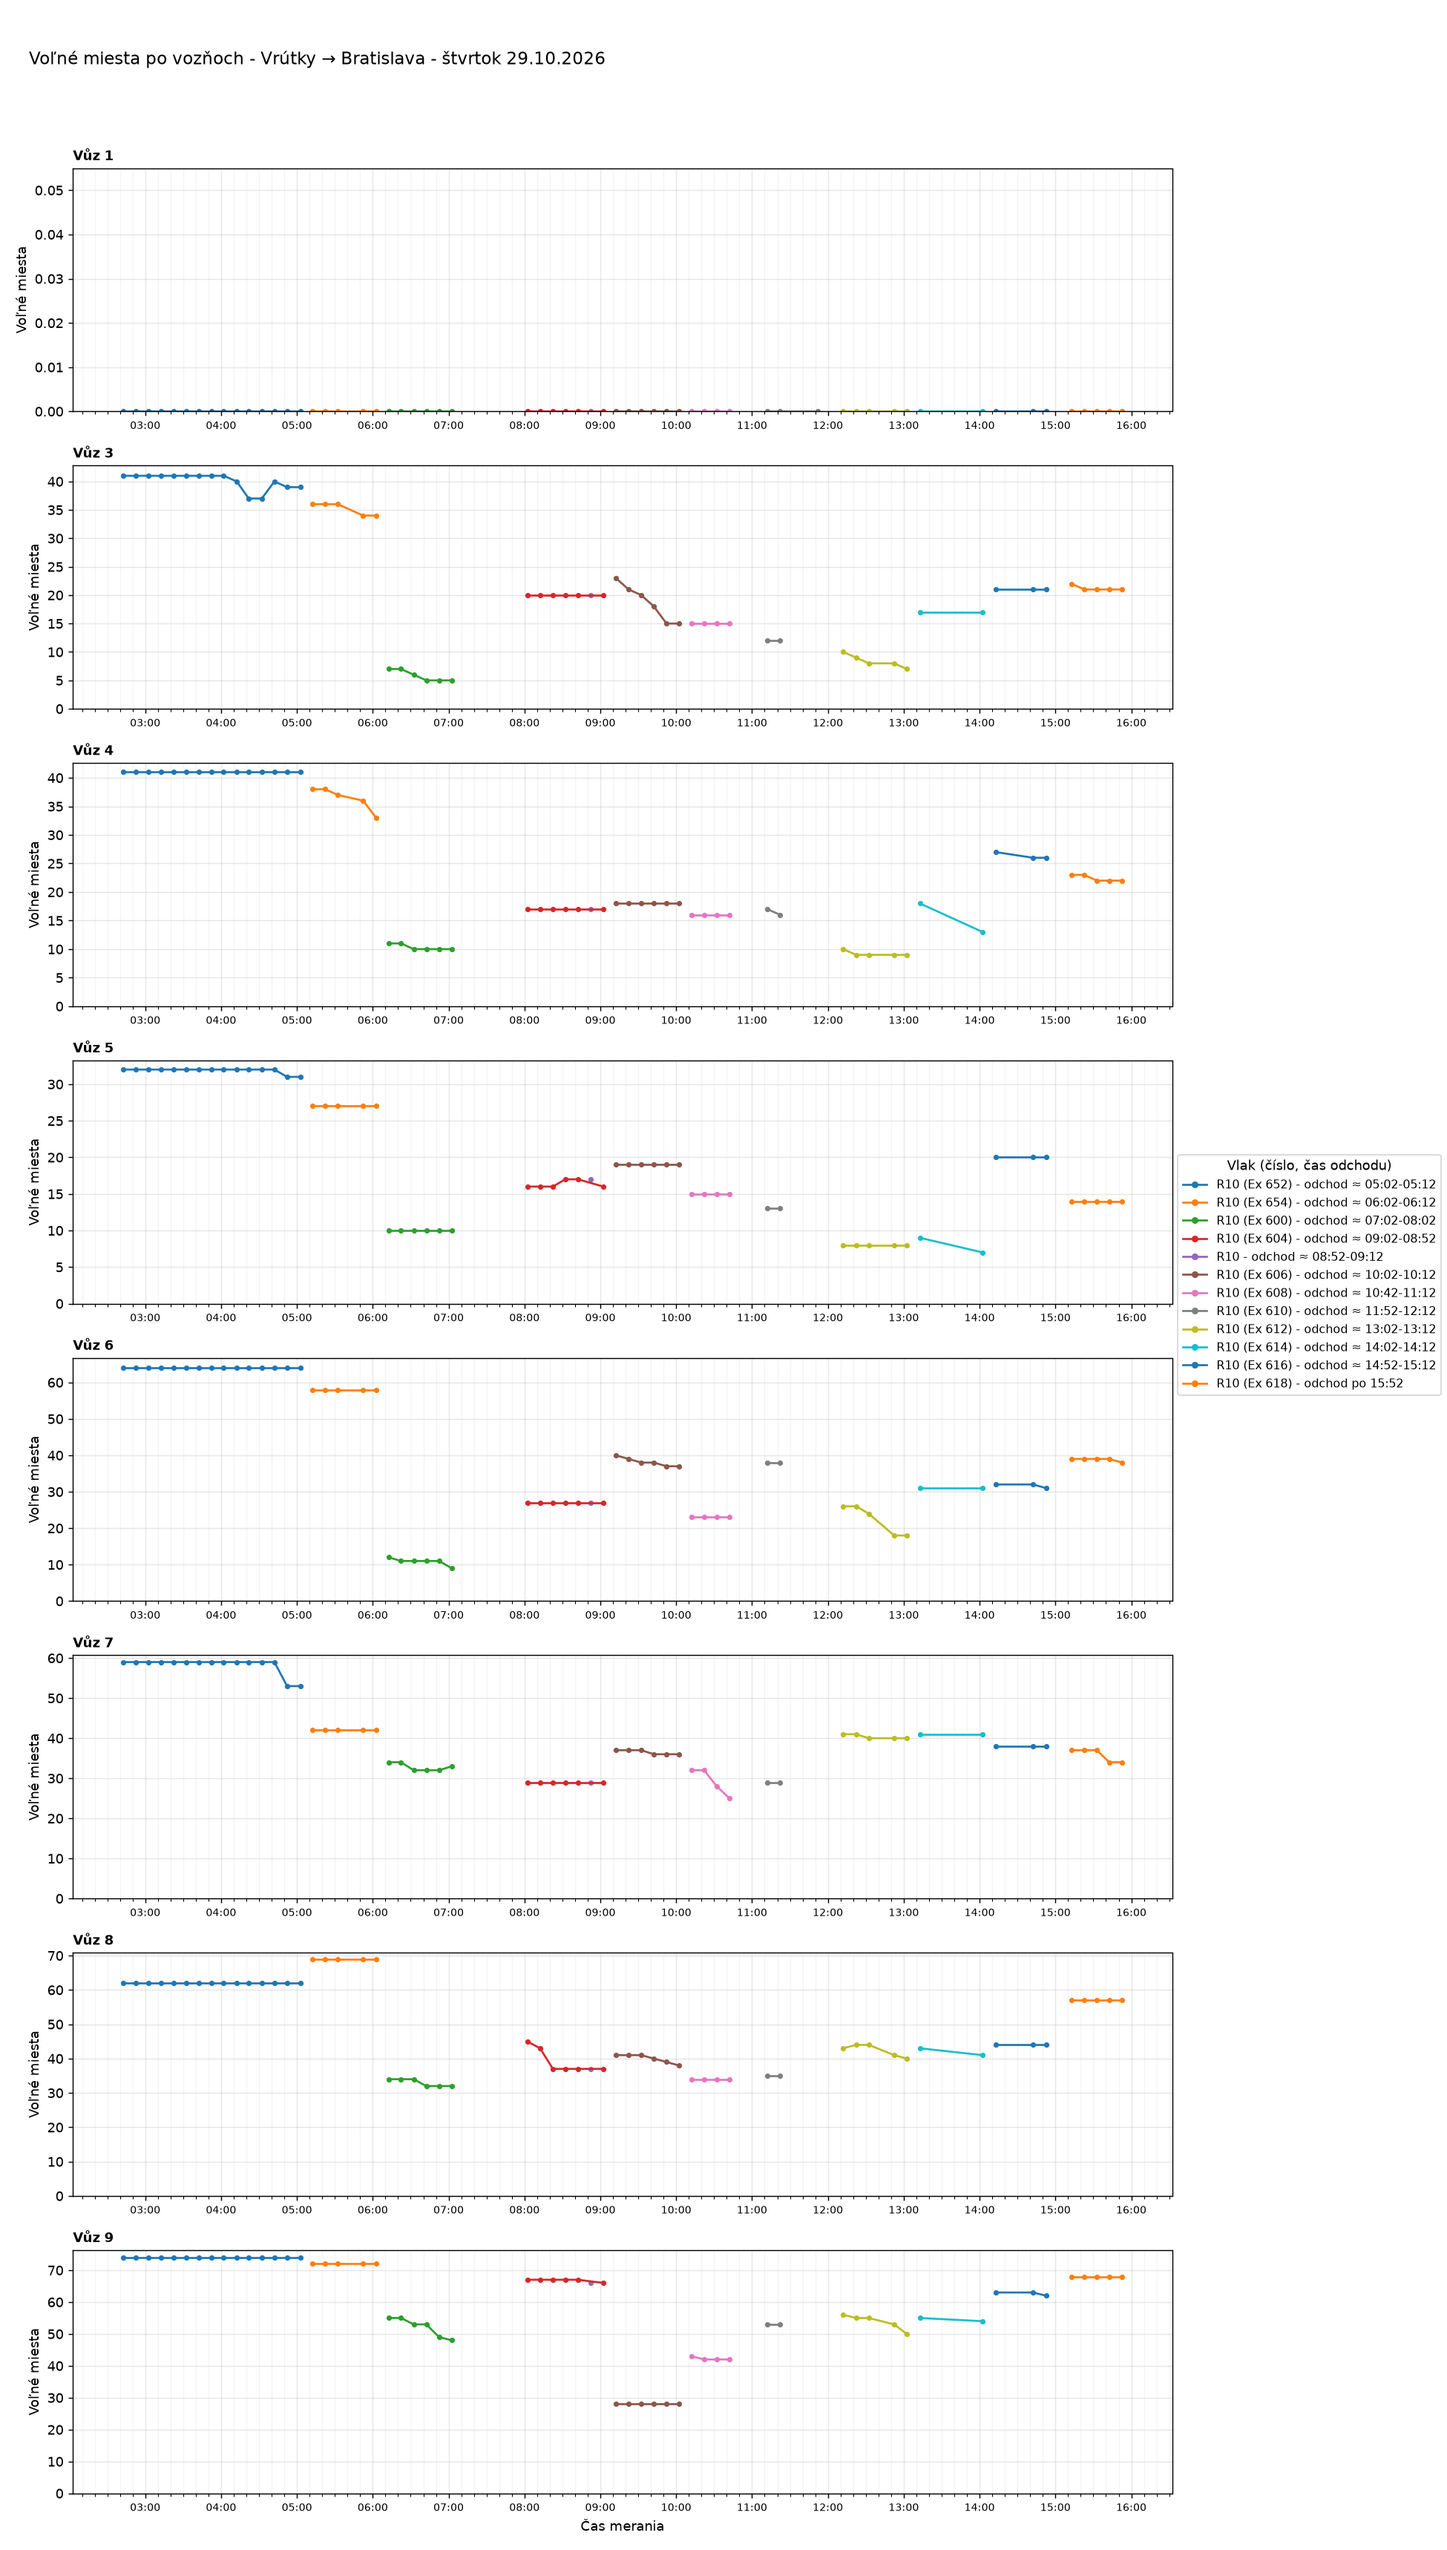
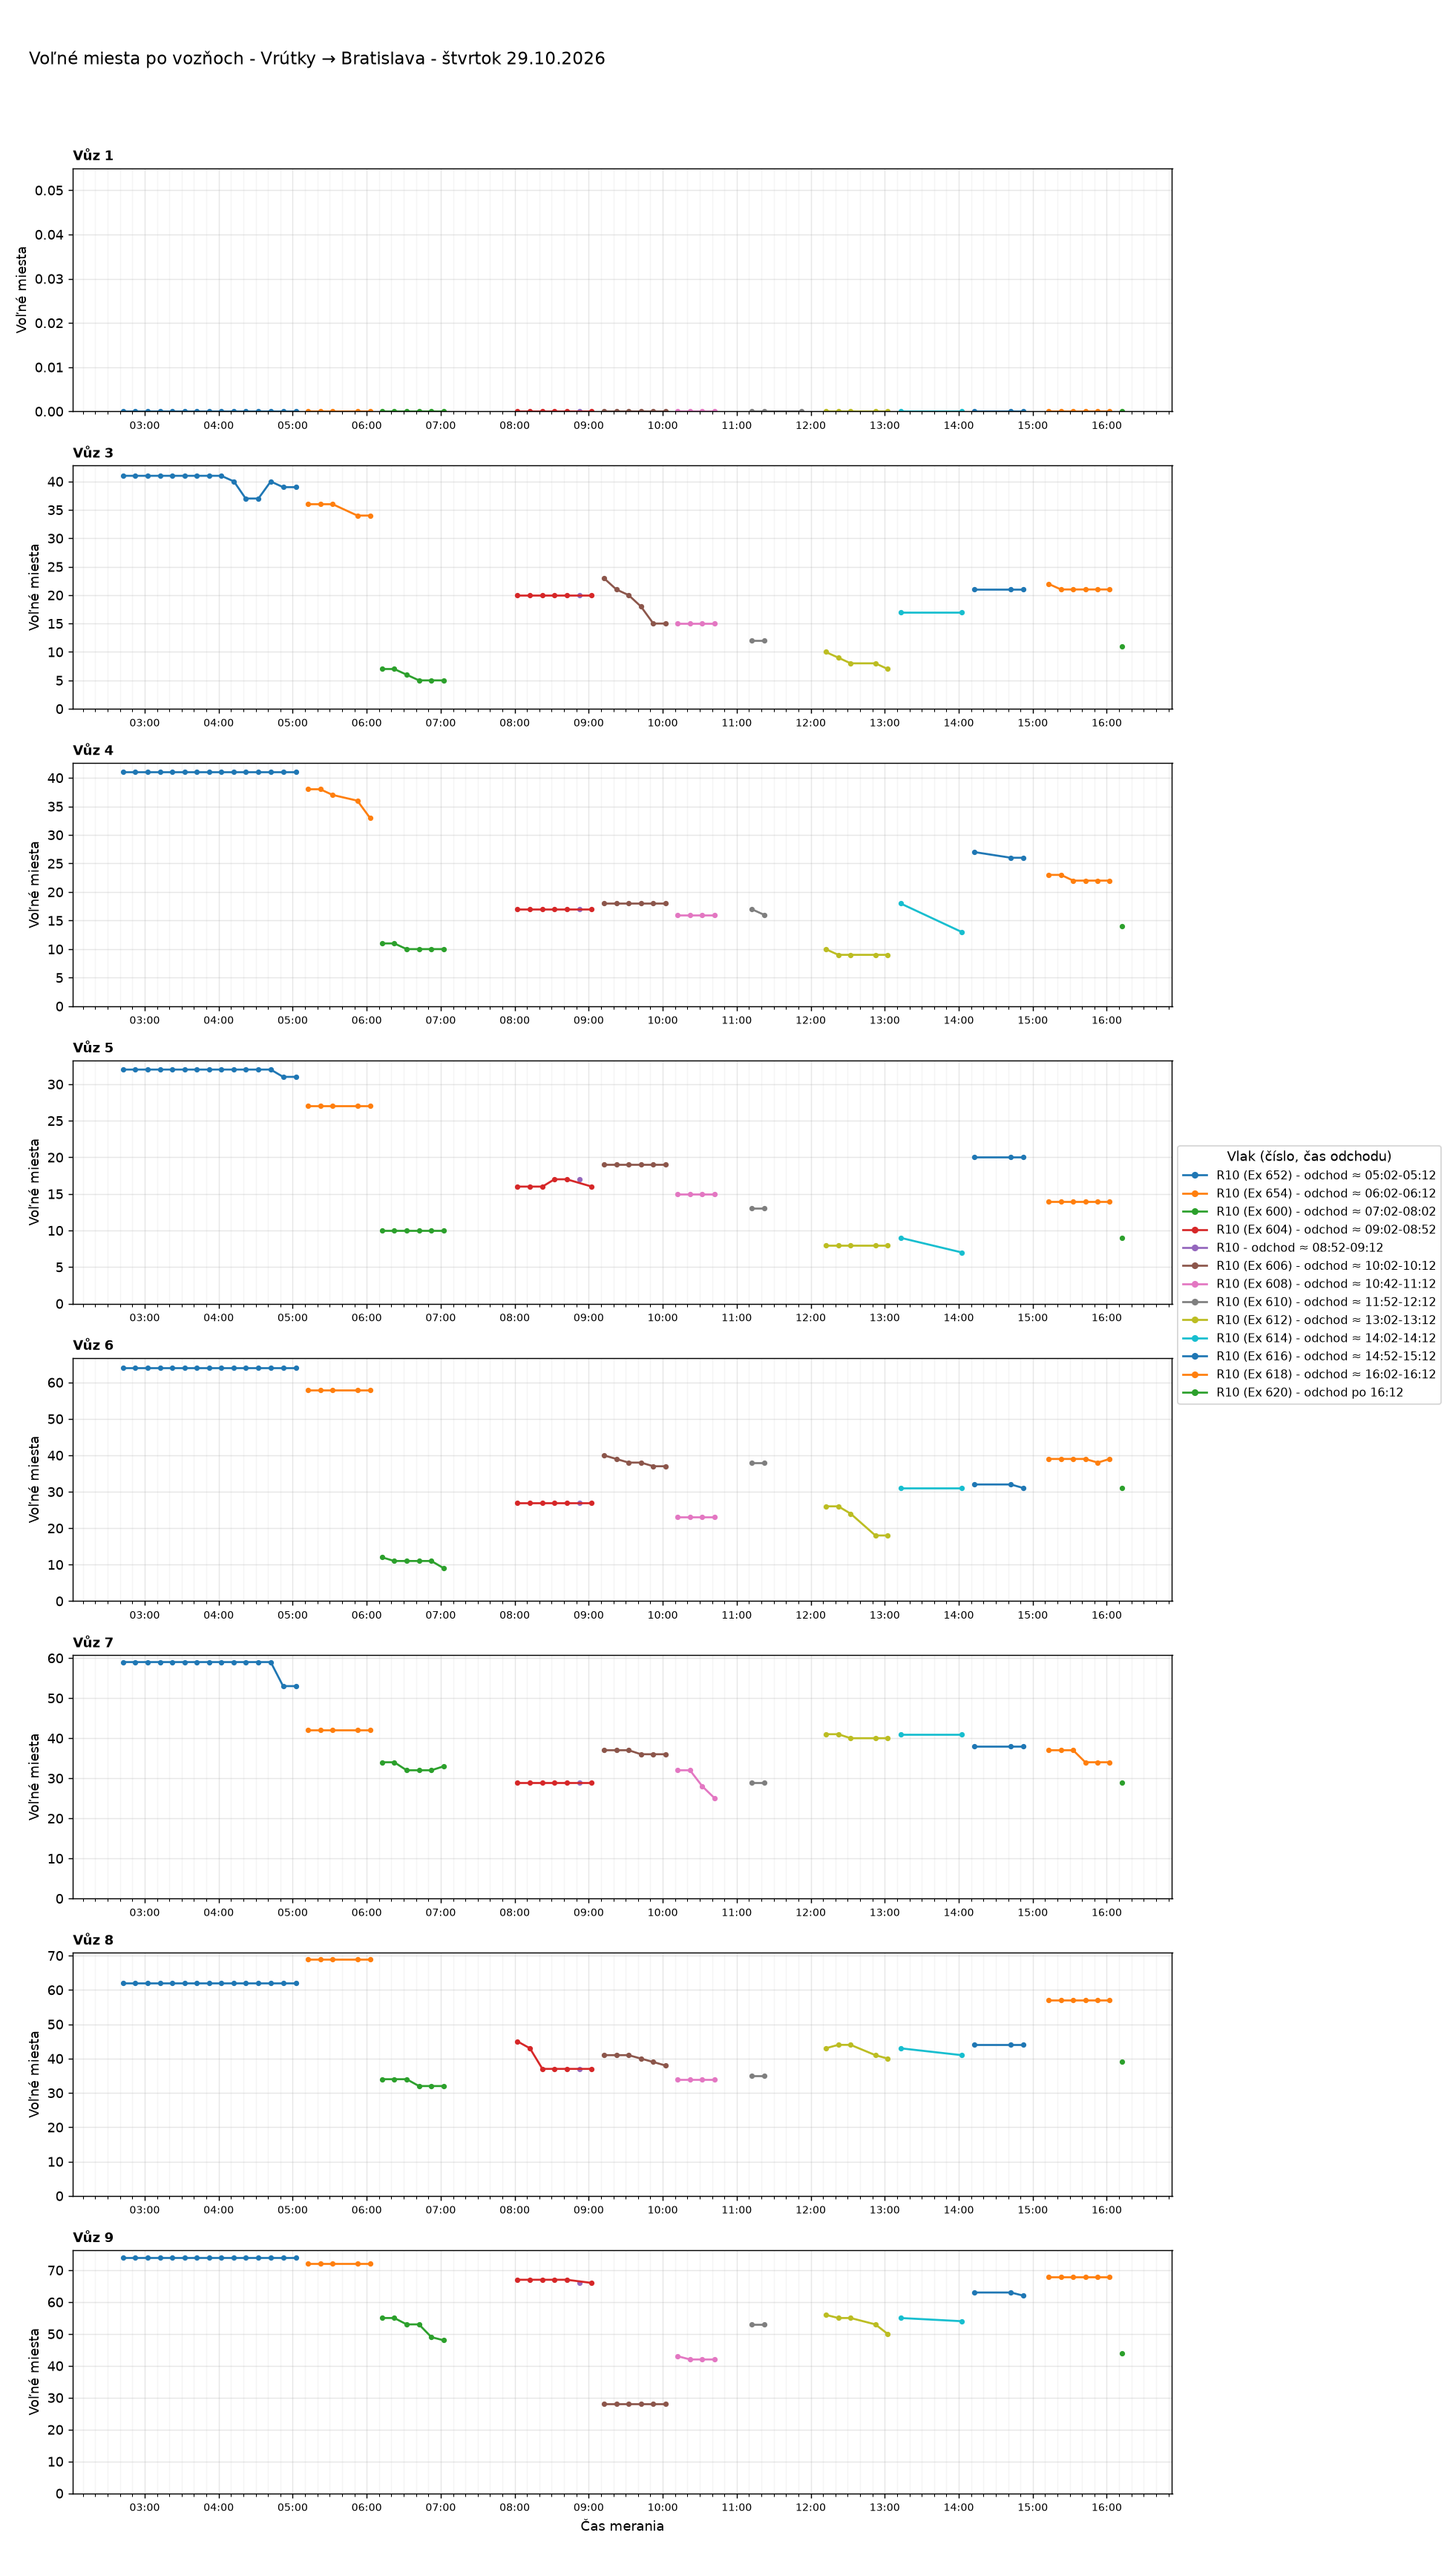
Aktualizácia grafov 2026-10-29 16:15

Changed region(s): [[0.8, 0.436, 1.0, 0.5605], [0.4308, 0.218, 0.4615, 0.2491]]

diff --git a/index.html b/index.html
@@ -37,7 +37,7 @@ details.trasa>summary{cursor:pointer;font-weight:600;font-size:1.1rem;padding:8p
 <body>
 <main>
 <h1>Voľné miesta vo vlakoch</h1>
-<p class="muted">Posledné meranie: 29.10.2026 15:53 ·
+<p class="muted">Posledné meranie: 29.10.2026 16:13 ·
 <a href="data/obsadenost_data.csv">stiahnuť dáta (CSV)</a></p>
 <nav class="nav"><a href="#suhrn">Súhrn</a><a href="#statistiky">Štatistiky</a><a href="#historia">História grafov</a></nav>
 
@@ -46,9 +46,9 @@ details.trasa>summary{cursor:pointer;font-weight:600;font-size:1.1rem;padding:8p
 <div class="tablewrap"><table>
 <thead><tr><th>Deň</th><th>Trasa</th><th>Meraní</th><th>Vlakov</th><th>Čas meraní</th></tr></thead>
 <tbody>
-<tr><td><a href="#dBA-VR-2026-10-29">štvrtok 29.10.2026</a></td><td>Bratislava → Vrútky</td><td>71</td><td>11</td><td>00:01-15:51</td></tr>
-<tr><td><a href="#dVR-BA-2026-10-29">štvrtok 29.10.2026</a></td><td>Vrútky → Bratislava</td><td>61</td><td>12</td><td>02:42-15:52</td></tr>
-<tr><td><a href="#dBA-KE-2026-10-29">štvrtok 29.10.2026</a></td><td>Bratislava → Košice</td><td>64</td><td>11</td><td>00:03-15:53</td></tr>
+<tr><td><a href="#dBA-VR-2026-10-29">štvrtok 29.10.2026</a></td><td>Bratislava → Vrútky</td><td>73</td><td>11</td><td>00:01-16:11</td></tr>
+<tr><td><a href="#dVR-BA-2026-10-29">štvrtok 29.10.2026</a></td><td>Vrútky → Bratislava</td><td>63</td><td>13</td><td>02:42-16:12</td></tr>
+<tr><td><a href="#dBA-KE-2026-10-29">štvrtok 29.10.2026</a></td><td>Bratislava → Košice</td><td>65</td><td>11</td><td>00:03-16:13</td></tr>
 <tr><td><a href="#dKE-BA-2026-10-29">štvrtok 29.10.2026</a></td><td>Košice → Bratislava</td><td>62</td><td>13</td><td>00:04-15:44</td></tr>
 <tr><td><a href="#dBA-VR-2026-10-28">streda 28.10.2026</a></td><td>Bratislava → Vrútky</td><td>148</td><td>16</td><td>00:03-23:51</td></tr>
 <tr><td><a href="#dVR-BA-2026-10-28">streda 28.10.2026</a></td><td>Vrútky → Bratislava</td><td>65</td><td>13</td><td>08:02-20:22</td></tr>
